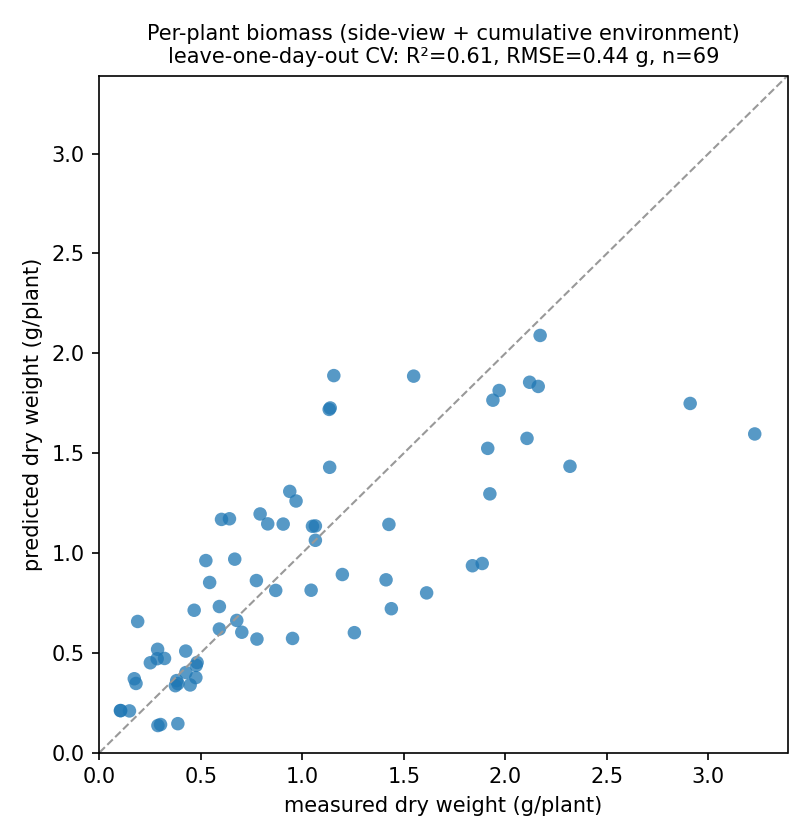
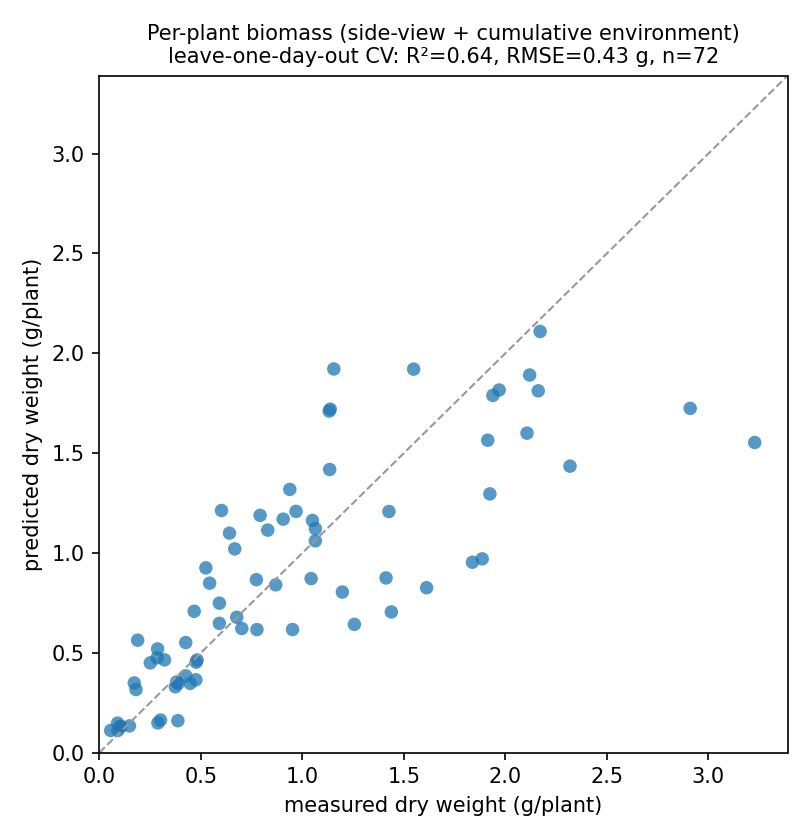
docs: 更新實測成績 R²≈0.61→0.64、69→72株（資料更新後重跑）
RGB數據更新後 Day07 由總重改登3筆單顆重，每株樣本 69→72；
側拍+累積環境 leave-one-day-out R²=0.637、RMSE=0.431g。
同步更新 Fig2、企劃書/摘要表 PDF、demo 口白與網站文字。

diff --git a/carbonlens/index.html b/carbonlens/index.html
@@ -184,8 +184,8 @@
       </div>
       <div class="card win">
         <span class="tag">目前成績</span>
-        <h3>自有資料 R²≈0.61</h3>
-        <p>自種萵苣 569 張影像、其中 69 株有單顆乾重。側拍結構＋累積環境，留一日交叉驗證 R²≈0.61、RMSE≈0.44 g。實測，非模擬。</p>
+        <h3>自有資料 R²≈0.64</h3>
+        <p>自種萵苣 569 張影像、其中 72 株有單顆乾重。側拍結構＋累積環境，留一日交叉驗證 R²≈0.64、RMSE≈0.43 g。實測，非模擬。</p>
       </div>
     </div>
   </div>
@@ -238,7 +238,7 @@
         <tr><td><b>信心分流</b></td><td>每筆估計帶信心區間，只有臨界樣品送驗——這讓輸出能當作 MRV 使用。</td></tr>
       </tbody>
     </table>
-    <p class="muted" style="font-size:.92rem">補充：我們也在這個資料規模下試過微調 CNN（凍結 ResNet 特徵），它沒有勝過可解釋的結構特徵＋環境（CNN R²≈0.46 對 0.61），主要是樣本少、且把影像縮成正方形會丟掉株高線索。深度感測（如手機 LiDAR）與更多作物列為日後提升準度的方向，不改變架構。</p>
+    <p class="muted" style="font-size:.92rem">補充：我們也在這個資料規模下試過微調 CNN（凍結 ResNet 特徵），它沒有勝過可解釋的結構特徵＋環境（CNN R²≈0.46 對 0.64），主要是樣本少、且把影像縮成正方形會丟掉株高線索。深度感測（如手機 LiDAR）與更多作物列為日後提升準度的方向，不改變架構。</p>
   </div>
 </section>
 
@@ -247,13 +247,13 @@
   <div class="wrap">
     <span class="sec-kicker">實測成果</span>
     <h2>自有萵苣資料集上的成績</h2>
-    <p class="lead">在自己種、逐日拍攝的萵苣資料集上，每株乾重模型用其中有單顆乾重的 69 株訓練與驗證，採最嚴格的留一日交叉驗證（預測沒看過的天）。</p>
+    <p class="lead">在自己種、逐日拍攝的萵苣資料集上，每株乾重模型用其中有單顆乾重的 72 株訓練與驗證，採最嚴格的留一日交叉驗證（預測沒看過的天）。</p>
 
     <div class="statline">
-      <div class="stat"><div class="num">R²≈0.61</div><div class="lab">每株乾重 · 留一日交叉驗證</div></div>
-      <div class="stat"><div class="num">≈0.44 g</div><div class="lab">RMSE</div></div>
+      <div class="stat"><div class="num">R²≈0.64</div><div class="lab">每株乾重 · 留一日交叉驗證</div></div>
+      <div class="stat"><div class="num">≈0.43 g</div><div class="lab">RMSE</div></div>
       <div class="stat"><div class="num ember">569 張</div><div class="lab">影像（第 7–35 天）</div></div>
-      <div class="stat"><div class="num ember">69 株</div><div class="lab">有單顆乾重的建模樣本</div></div>
+      <div class="stat"><div class="num ember">72 株</div><div class="lab">有單顆乾重的建模樣本</div></div>
     </div>
 
     <div class="figs">
@@ -263,7 +263,7 @@
       </figure>
       <figure class="fig">
         <img src="../docs/biomass_prediction.png" alt="每株乾重 預測 vs 實測散布圖" />
-        <figcaption><b>圖 2：</b>每株乾重預測 vs 實測，留一日交叉驗證（側拍結構＋累積環境、69 株），R²≈0.61。</figcaption>
+        <figcaption><b>圖 2：</b>每株乾重預測 vs 實測，留一日交叉驗證（側拍結構＋累積環境、72 株），R²≈0.64。</figcaption>
       </figure>
     </div>
 
@@ -375,7 +375,7 @@
       <div class="item">
         <span class="en">⑤ Expected Benefit</span>
         <h3>預期效益（量化）</h3>
-        <p>自有資料每株乾重 R²≈0.61、RMSE≈0.44 g（留一日交叉驗證），實測。傳統採收＋烘乾約 2–3 天，本方法拍照秒級、可重複。專案層級數位 MRV 文獻報導降本約 70–90%。</p>
+        <p>自有資料每株乾重 R²≈0.64、RMSE≈0.43 g（留一日交叉驗證），實測。傳統採收＋烘乾約 2–3 天，本方法拍照秒級、可重複。專案層級數位 MRV 文獻報導降本約 70–90%。</p>
       </div>
       <div class="item">
         <span class="en">⑥ Project Introduction Video（≤5 min）</span>

diff --git a/index.html b/index.html
@@ -106,9 +106,9 @@
     <p class="slogan">用低成本影像、非破壞地估算一株植物含多少碳。這頁是給組員的中樞：方向已定，集中放企劃書、摘要表與 demo 口白，方便查看。</p>
     <p class="meta">生物碳移除真正卡住的，常常是<b>量測</b>這一步——固了多少碳，要量得準也量得起。LeafCarbon 用一張照片加上少量烘乾乾重校正，估出每株生物量、再換成碳量（碳 = 乾生物量 × 0.47）。</p>
     <div class="pills">
-      <span class="pill">每株乾重 <b>R²≈0.61</b>（留一日交叉驗證）</span>
-      <span class="pill">RMSE <b>≈0.44 g</b></span>
-      <span class="pill">自有萵苣資料 <b>569 張／69 株</b></span>
+      <span class="pill">每株乾重 <b>R²≈0.64</b>（留一日交叉驗證）</span>
+      <span class="pill">RMSE <b>≈0.43 g</b></span>
+      <span class="pill">自有萵苣資料 <b>569 張／72 株</b></span>
       <span class="pill">非破壞 · <b>秒級</b></span>
     </div>
   </div>
@@ -126,7 +126,7 @@
         <tr><td>輸入</td><td>低成本影像（冠層面積、株高、綠度、冠層密度）＋環境時序（累積光照、生長度日）。</td></tr>
         <tr><td>模型</td><td>綠色冠層擷取 → 可解釋結構特徵 → 隨機森林回歸每株乾重，並帶信心區間。</td></tr>
         <tr><td>輸出 → 碳量</td><td>每株乾重 → × 0.47 碳分率 = 碳量（不需對每株做元素分析）。</td></tr>
-        <tr><td>實測成績</td><td>側拍結構＋累積環境，留一日交叉驗證 <b>R²≈0.61、RMSE≈0.44 g（69 株）</b>。</td></tr>
+        <tr><td>實測成績</td><td>側拍結構＋累積環境，留一日交叉驗證 <b>R²≈0.64、RMSE≈0.43 g（72 株）</b>。</td></tr>
       </tbody>
     </table>
   </div>
@@ -187,7 +187,7 @@
     <table class="tbl">
       <thead><tr><th>共同特性</th><th>LeafCarbon 目前對到的點</th></tr></thead>
       <tbody>
-        <tr><td>① 硬數字當主角</td><td>每株乾重 R²≈0.61、RMSE≈0.44 g，自有資料實測。</td></tr>
+        <tr><td>① 硬數字當主角</td><td>每株乾重 R²≈0.64、RMSE≈0.43 g，自有資料實測。</td></tr>
         <tr><td>② 便宜取代昂貴</td><td>把「採收＋烘乾 2–3 天」換成「拍照、秒級、非破壞」。</td></tr>
         <tr><td>⑤ 真樣品真實證，非概念</td><td>自種萵苣逐日拍攝＋乾重，留一日交叉驗證，非模擬。</td></tr>
         <tr><td>⑦ 團隊專業補滿</td><td>資工（模型／系統）×材料（烘乾校正／影像標準化）雙覆蓋。<span class="muted"> 建議再補一位碳權/土壤顧問補缺口。</span></td></tr>
@@ -199,7 +199,7 @@
 
 <footer>
   <div class="wrap">
-    <p><b>LeafCarbon · 提案中樞</b> — 本屆方向已定。研究底稿見專案根目錄 <code>02_提案核心/LeafCarbon_深度研究簡報.md</code> 與 <code>LeafCarbon_企劃書_中文版.md</code>；實驗結果見 <code>03_實驗數據/綠色比例分析_結果.md</code>。</p>
+    <p><b>LeafCarbon · 提案中樞</b> — 本屆方向已定。研究底稿見專案根目錄 <code>02_提案核心/LeafCarbon_深度研究簡報.md</code> 與 <code>05_報名繳件_英文/02_LeafCarbon_Project_Plan_中文閱讀版.md</code>；實驗結果見 <code>03_實驗數據/綠色比例分析_結果.md</code>。</p>
     <p class="muted">關鍵時程：報名截止 6/25 · 入圍公告 7/10 · 決賽 8/19。所有對外文件限英語。</p>
     <p class="next-year">其他候選方向（生物炭 H/C、AI 催化劑三方向）本屆不走，保留供明年參考：<a href="ai-catalyst/index.html">AI 催化劑三方向（暫存）</a>。</p>
   </div>

diff --git a/docs/demo_script.html b/docs/demo_script.html
@@ -45,7 +45,7 @@
     <span class="kicker">LeafCarbon · 2026 Net Zero Tech</span>
     <h1>Demo 影片中英文稿對照表</h1>
     <p class="sub">≤ 5 分鐘介紹影片的口白草稿。比賽規定影片為英文，所以<b>左欄英文是實際要講的稿</b>，右欄中文是對照與討論用。場景提示為斜體。</p>
-    <div class="note">數字與說法已與摘要表、企劃書一致：每株乾重 R²≈0.61、RMSE≈0.44 g（留一日交叉驗證、69 株）；碳 = 乾生物量 × 0.47；萵苣只是快速驗證作物，不主張它是碳匯。</div>
+    <div class="note">數字與說法已與摘要表、企劃書一致：每株乾重 R²≈0.64、RMSE≈0.43 g（留一日交叉驗證、72 株）；碳 = 乾生物量 × 0.47；萵苣只是快速驗證作物，不主張它是碳匯。</div>
     <div class="meta"><span>目標長度：<b>約 4:40</b></span><span>語言：<b>英文口白</b>（中文對照）</span><span>← <a href="../index.html">回入口</a></span></div>
   </header>
 
@@ -80,9 +80,9 @@
       </tr>
       <tr>
         <td class="seg">5. 成績與成本<span class="t">3:20–4:20</span></td>
-        <td class="en">On our own lettuce dataset, the model predicts per-plant dry weight with an R-squared of about 0.61 and an RMSE of about 0.44 grams, under leave-one-day-out cross-validation. This is a measured result, not a simulation. And it is fast: the traditional method takes days and destroys the plant, while this takes a photo and a few seconds, and the same plant can be measured again later. Each estimate also reports a confidence interval, so only uncertain samples are sent to the lab.
-        <span class="scene">畫面：預測 vs 實測散布圖（Fig 2，R²≈0.61）；秒級 vs 數天的對比。</span></td>
-        <td class="zh">在我們自己的萵苣資料集上，模型估每株乾重的 R² 約 0.61、RMSE 約 0.44 克，採留一日交叉驗證。這是實測結果，不是模擬。而且很快：傳統方法要數天又毀植株，這個只要拍照、幾秒，同一株之後還能再量。每筆估計也會回報信心區間，只有不確定的才送實驗室。</td>
+        <td class="en">On our own lettuce dataset, the model predicts per-plant dry weight with an R-squared of about 0.64 and an RMSE of about 0.43 grams, under leave-one-day-out cross-validation. This is a measured result, not a simulation. And it is fast: the traditional method takes days and destroys the plant, while this takes a photo and a few seconds, and the same plant can be measured again later. Each estimate also reports a confidence interval, so only uncertain samples are sent to the lab.
+        <span class="scene">畫面：預測 vs 實測散布圖（Fig 2，R²≈0.64）；秒級 vs 數天的對比。</span></td>
+        <td class="zh">在我們自己的萵苣資料集上，模型估每株乾重的 R² 約 0.64、RMSE 約 0.43 克，採留一日交叉驗證。這是實測結果，不是模擬。而且很快：傳統方法要數天又毀植株，這個只要拍照、幾秒，同一株之後還能再量。每筆估計也會回報信心區間，只有不確定的才送實驗室。</td>
       </tr>
       <tr>
         <td class="seg">6. 收尾<span class="t">4:20–4:40</span></td>

diff --git a/README.md b/README.md
@@ -32,7 +32,7 @@
 
 ## 目前成績
 
-自有萵苣資料集（569 張、第 7–35 天），每株乾重模型用其中有單顆乾重的 69 株訓練與驗證。側拍結構特徵＋累積環境，留一日交叉驗證 **R²≈0.61、RMSE≈0.44 g**。實測結果，非模擬。
+自有萵苣資料集（569 張、第 7–35 天），每株乾重模型用其中有單顆乾重的 72 株訓練與驗證。側拍結構特徵＋累積環境，留一日交叉驗證 **R²≈0.64、RMSE≈0.43 g**。實測結果，非模擬。
 
 ## 紅線（務必守住）
 